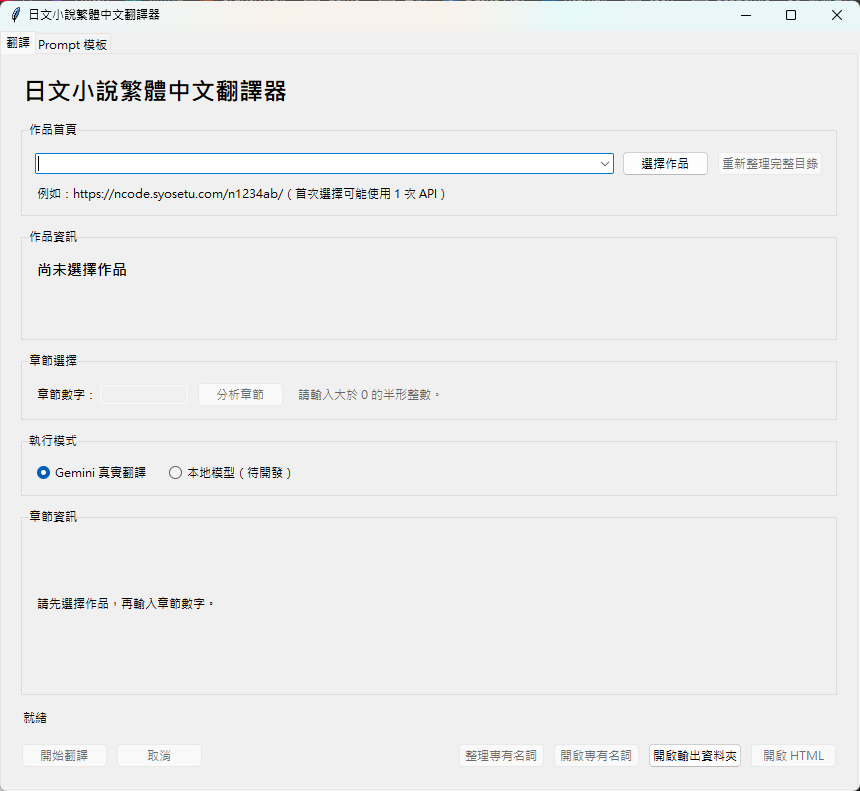
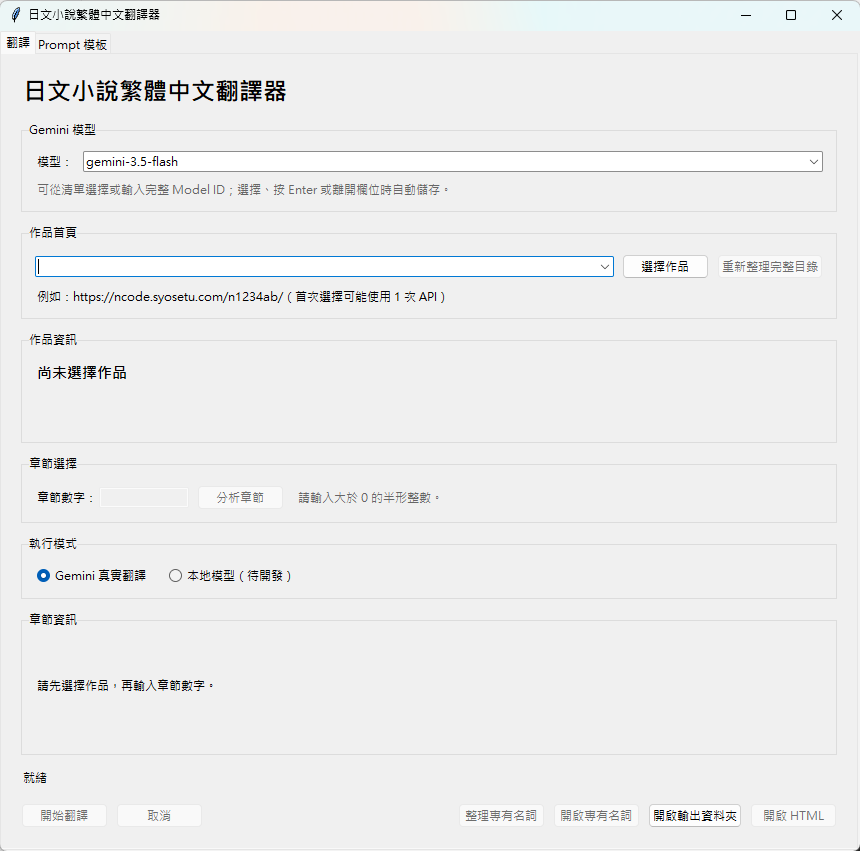
feat: add editable Gemini model selector

diff --git a/ui/app.py b/ui/app.py
@@ -4,6 +4,7 @@ from __future__ import annotations
 
 import os
 import queue
+from dataclasses import replace
 from pathlib import Path
 from tkinter import END, StringVar, Text, Tk, Toplevel, messagebox, simpledialog, ttk
 from tkinter.scrolledtext import ScrolledText
@@ -16,7 +17,14 @@ from core.bootstrap import (
     build_work_setup_service,
 )
 from core.chapter_progress import ChapterCompletionTracker, ChapterProgress
-from core.config import AppConfig, get_api_key, load_config, load_environment, save_api_key
+from core.config import (
+    AppConfig,
+    get_api_key,
+    load_config,
+    load_environment,
+    save_api_key,
+    write_config,
+)
 from core.controller import (
     ProgressUpdate,
     TranslationController,
@@ -65,6 +73,11 @@ _WORK_PROGRESS_TEXT = {
     "completed": "作品資料準備完成。",
 }
 
+_GEMINI_MODEL_CHOICES = (
+    "gemini-3.5-flash",
+    "gemini-3.5-flash-lite",
+)
+
 
 class DesktopApp:
     """Own widgets and translate worker messages into main-thread UI updates."""
@@ -105,6 +118,7 @@ class DesktopApp:
         }
 
         self.url = StringVar()
+        self.model_name = StringVar(value=self.config.model)
         self.chapter_number = StringVar()
         self.mode = StringVar(value="gemini")
         self.japanese_work = StringVar(value="尚未選擇作品")
@@ -123,8 +137,8 @@ class DesktopApp:
 
     def _configure_window(self) -> None:
         self.root.title("日文小說繁體中文翻譯器")
-        self.root.geometry("860x760")
-        self.root.minsize(720, 660)
+        self.root.geometry("860x820")
+        self.root.minsize(720, 700)
         self.root.columnconfigure(0, weight=1)
         self.root.rowconfigure(0, weight=1)
 
@@ -145,8 +159,28 @@ class DesktopApp:
             outer, text="日文小說繁體中文翻譯器", font=("Microsoft JhengHei UI", 18, "bold")
         ).grid(row=0, column=0, sticky="w", pady=(0, 14))
 
+        model_frame = ttk.LabelFrame(outer, text="Gemini 模型", padding=12)
+        model_frame.grid(row=1, column=0, sticky="ew")
+        model_frame.columnconfigure(1, weight=1)
+        ttk.Label(model_frame, text="模型：").grid(row=0, column=0, sticky="w")
+        self.model_entry = ttk.Combobox(
+            model_frame,
+            textvariable=self.model_name,
+            values=_GEMINI_MODEL_CHOICES,
+            state="normal",
+        )
+        self.model_entry.grid(row=0, column=1, sticky="ew", padx=(8, 0))
+        self.model_entry.bind("<<ComboboxSelected>>", self._on_model_committed)
+        self.model_entry.bind("<Return>", self._on_model_committed)
+        self.model_entry.bind("<FocusOut>", self._on_model_committed)
+        ttk.Label(
+            model_frame,
+            text="可從清單選擇或輸入完整 Model ID；選擇、按 Enter 或離開欄位時自動儲存。",
+            foreground="#666666",
+        ).grid(row=1, column=0, columnspan=2, sticky="w", pady=(8, 0))
+
         url_frame = ttk.LabelFrame(outer, text="作品首頁", padding=12)
-        url_frame.grid(row=1, column=0, sticky="ew")
+        url_frame.grid(row=2, column=0, sticky="ew", pady=(12, 0))
         url_frame.columnconfigure(0, weight=1)
         self.url_entry = ttk.Combobox(
             url_frame,
@@ -167,7 +201,7 @@ class DesktopApp:
         ).grid(row=1, column=0, columnspan=2, sticky="w", pady=(8, 0))
 
         work_frame = ttk.LabelFrame(outer, text="作品資訊", padding=12)
-        work_frame.grid(row=2, column=0, sticky="ew", pady=(12, 0))
+        work_frame.grid(row=3, column=0, sticky="ew", pady=(12, 0))
         ttk.Label(
             work_frame,
             textvariable=self.japanese_work,
@@ -183,7 +217,7 @@ class DesktopApp:
         )
 
         chapter_frame = ttk.LabelFrame(outer, text="章節選擇", padding=12)
-        chapter_frame.grid(row=3, column=0, sticky="ew", pady=(12, 0))
+        chapter_frame.grid(row=4, column=0, sticky="ew", pady=(12, 0))
         ttk.Label(chapter_frame, text="章節數字：").grid(row=0, column=0, sticky="w")
         self.chapter_entry = ttk.Entry(chapter_frame, textvariable=self.chapter_number, width=12)
         self.chapter_entry.grid(row=0, column=1, sticky="w", padx=(0, 8))
@@ -196,7 +230,7 @@ class DesktopApp:
         )
 
         mode_frame = ttk.LabelFrame(outer, text="執行模式", padding=12)
-        mode_frame.grid(row=4, column=0, sticky="ew", pady=(12, 0))
+        mode_frame.grid(row=5, column=0, sticky="ew", pady=(12, 0))
         modes = (
             ("Gemini 真實翻譯", "gemini"),
             ("本地模型（待開發）", "local"),
@@ -214,8 +248,8 @@ class DesktopApp:
             self.mode_buttons.append(button)
 
         summary_frame = ttk.LabelFrame(outer, text="章節資訊", padding=(12, 12, 12, 18))
-        summary_frame.grid(row=5, column=0, sticky="nsew", pady=(12, 0))
-        outer.rowconfigure(5, weight=1)
+        summary_frame.grid(row=6, column=0, sticky="nsew", pady=(12, 0))
+        outer.rowconfigure(6, weight=1)
         ttk.Label(
             summary_frame,
             textvariable=self.summary,
@@ -225,7 +259,7 @@ class DesktopApp:
         ).pack(anchor="nw", fill="both", expand=True)
 
         progress_frame = ttk.Frame(outer)
-        progress_frame.grid(row=6, column=0, sticky="ew", pady=(12, 4))
+        progress_frame.grid(row=7, column=0, sticky="ew", pady=(12, 4))
         progress_frame.columnconfigure(1, weight=1)
         self.spinner = LoadingSpinner(progress_frame)
         self.spinner.grid(row=0, column=0, sticky="w", padx=(0, 10))
@@ -233,7 +267,7 @@ class DesktopApp:
         ttk.Label(progress_frame, textvariable=self.status).grid(row=0, column=1, sticky="w")
 
         actions = ttk.Frame(outer)
-        actions.grid(row=7, column=0, sticky="ew", pady=(12, 0))
+        actions.grid(row=8, column=0, sticky="ew", pady=(12, 0))
         self.start_button = ttk.Button(actions, text="開始翻譯", command=self.start)
         self.start_button.pack(side="left")
         self.cancel_button = ttk.Button(actions, text="取消", command=self.cancel)
@@ -376,6 +410,8 @@ class DesktopApp:
         self.root.destroy()
 
     def select_work(self) -> None:
+        if not self._commit_model_selection():
+            return
         entered_url = self.url.get().strip()
         if not entered_url:
             messagebox.showwarning("缺少網址", "請先輸入作品首頁網址。", parent=self.root)
@@ -399,6 +435,8 @@ class DesktopApp:
             self._show_error(exc)
 
     def refresh_catalog(self) -> None:
+        if not self._commit_model_selection():
+            return
         entered_url = self.work.source_url if self.work is not None else self.url.get().strip()
         if not entered_url:
             messagebox.showwarning("缺少網址", "請先輸入作品首頁或章節網址。", parent=self.root)
@@ -432,6 +470,8 @@ class DesktopApp:
             self._show_error(exc)
 
     def analyze_chapter(self) -> None:
+        if not self._commit_model_selection():
+            return
         if self.work is None:
             messagebox.showwarning(
                 "尚未選擇作品", "請先輸入作品首頁網址並選擇作品。", parent=self.root
@@ -480,6 +520,8 @@ class DesktopApp:
             self._show_error(exc)
 
     def start(self) -> None:
+        if not self._commit_model_selection():
+            return
         if self.plan is None or self.controller is None:
             return
         selected = self.mode.get()
@@ -659,6 +701,8 @@ class DesktopApp:
             self._show_error(exc)
 
     def organize_terms(self) -> None:
+        if not self._commit_model_selection():
+            return
         if self.work_result is None:
             return
         api_key = self._get_or_request_api_key()
@@ -1090,6 +1134,7 @@ class DesktopApp:
             "organizing_terms",
         }
         work_ready = state in {"work_ready", "chapter_ready"}
+        self.model_entry.configure(state="disabled" if busy else "normal")
         self.url_entry.configure(state="disabled" if busy else "normal")
         self.select_work_button.configure(state="disabled" if busy else "normal")
         can_refresh_catalog = not busy and self.work_result is not None
@@ -1122,6 +1167,52 @@ class DesktopApp:
         source_url = self._local_work_urls.get(self.url.get())
         if source_url is not None:
             self.url.set(source_url)
+
+    def _on_model_committed(self, _event: object) -> None:
+        self._commit_model_selection()
+
+    def _commit_model_selection(self) -> bool:
+        selected = self.model_name.get().strip()
+        if not selected:
+            self.model_name.set(self.config.model)
+            messagebox.showwarning(
+                "模型不可空白",
+                "請選擇或輸入完整的 Gemini Model ID。",
+                parent=self.root,
+            )
+            return False
+        if selected == self.config.model:
+            self.model_name.set(selected)
+            return True
+
+        updated = replace(self.config, model=selected)
+        try:
+            write_config(updated, self.app_directory / "config.json")
+        except OSError as exc:
+            self.model_name.set(self.config.model)
+            messagebox.showerror(
+                "模型儲存失敗",
+                f"無法寫入 config.json：\n{exc}",
+                parent=self.root,
+            )
+            return False
+
+        self.config = updated
+        self.model_name.set(selected)
+        self._term_organization_service = None
+        if self.plan is not None or self.controller is not None:
+            self.plan = None
+            self.controller = None
+            self.result = None
+            self._analyzed_mode = None
+            if self.work_result is not None:
+                self.summary.set("模型已變更，請重新分析章節後再開始翻譯。")
+                self._apply_state("work_ready", f"模型已儲存：{selected}；請重新分析章節。")
+            else:
+                self._apply_state("idle", f"模型已儲存：{selected}")
+        else:
+            self._apply_state(self.state, f"模型已儲存：{selected}")
+        return True
 
     def _reload_local_work_choices(self) -> None:
         self._local_work_urls = {

diff --git a/tests/test_app_model.py b/tests/test_app_model.py
@@ -1,0 +1,71 @@
+from __future__ import annotations
+
+import json
+from pathlib import Path
+from types import SimpleNamespace
+from typing import Any
+
+from core.config import AppConfig
+from ui.app import DesktopApp
+
+
+class Value:
+    def __init__(self, value: str) -> None:
+        self.value = value
+
+    def get(self) -> str:
+        return self.value
+
+    def set(self, value: str) -> None:
+        self.value = value
+
+
+def make_app(tmp_path: Path, model: str = "gemini-3.5-flash") -> Any:
+    app: Any = DesktopApp.__new__(DesktopApp)
+    app.root = SimpleNamespace()
+    app.app_directory = tmp_path
+    app.config = AppConfig(model=model)
+    app.model_name = Value(model)
+    app.state = "work_ready"
+    app.plan = None
+    app.controller = None
+    app.result = None
+    app.work_result = SimpleNamespace()
+    app.summary = Value("")
+    app._analyzed_mode = None
+    app._term_organization_service = SimpleNamespace()
+    app._apply_state = lambda state, status=None: setattr(app, "state", state)
+    return app
+
+
+def test_manual_model_is_saved_to_config(tmp_path: Path) -> None:
+    app = make_app(tmp_path)
+    app.model_name.set("  gemini-custom-model  ")
+
+    assert app._commit_model_selection() is True
+
+    assert app.config.model == "gemini-custom-model"
+    assert app.model_name.get() == "gemini-custom-model"
+    assert json.loads((tmp_path / "config.json").read_text(encoding="utf-8"))["model"] == (
+        "gemini-custom-model"
+    )
+    assert app._term_organization_service is None
+
+
+def test_model_change_invalidates_analyzed_chapter(tmp_path: Path) -> None:
+    app = make_app(tmp_path)
+    app.plan = SimpleNamespace()
+    app.controller = SimpleNamespace()
+    app.result = SimpleNamespace()
+    app._analyzed_mode = "gemini"
+    app.state = "chapter_ready"
+    app.model_name.set("gemini-3.5-flash-lite")
+
+    assert app._commit_model_selection() is True
+
+    assert app.plan is None
+    assert app.controller is None
+    assert app.result is None
+    assert app._analyzed_mode is None
+    assert app.state == "work_ready"
+    assert "重新分析章節" in app.summary.get()

diff --git a/README.md b/README.md
@@ -16,6 +16,7 @@
 
 - 輸入作品首頁或章節網址；章節網址會自動拆分為作品與章節。
 - 從本機作品下拉選單快速載入既有作品。
+- 在 GUI 選擇 Gemini 3.5 Flash／Flash-Lite，或手動輸入其他 Model ID；變更後自動寫入 `config.json`。
 - 讀取作品名稱、作者、摘要與章節目錄。
 - 首次選擇作品時翻譯作品名稱及摘要，建立作品專屬資料夾與 `work.json`。
 - 以數字選擇章節，並顯示下一個待翻譯章節。

diff --git a/CHANGELOG.md b/CHANGELOG.md
@@ -2,6 +2,12 @@
 
 本文件記錄 AutoTranslater 各版本的重要變更。
 
+## 尚未發布
+
+### 新增
+
+- GUI 新增可編輯的 Gemini 模型選單，提供 3.5 Flash／Flash-Lite，並將選擇或手動輸入的 Model ID 自動保存至 `config.json`。
+
 ## 0.1.0 - 2026-09-05
 
 ### 新增
